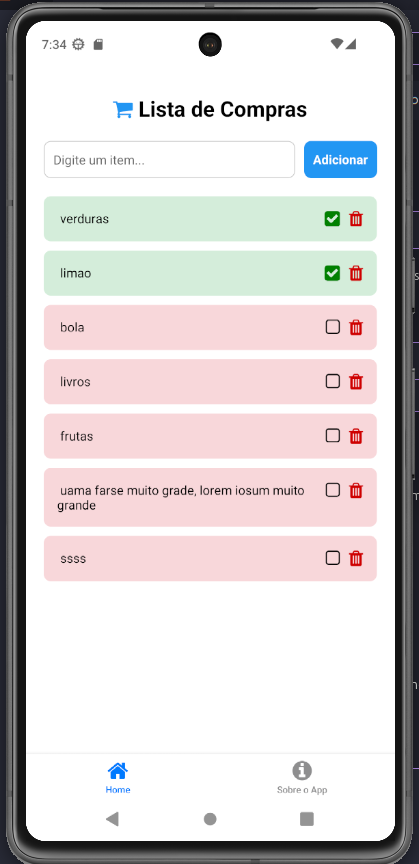
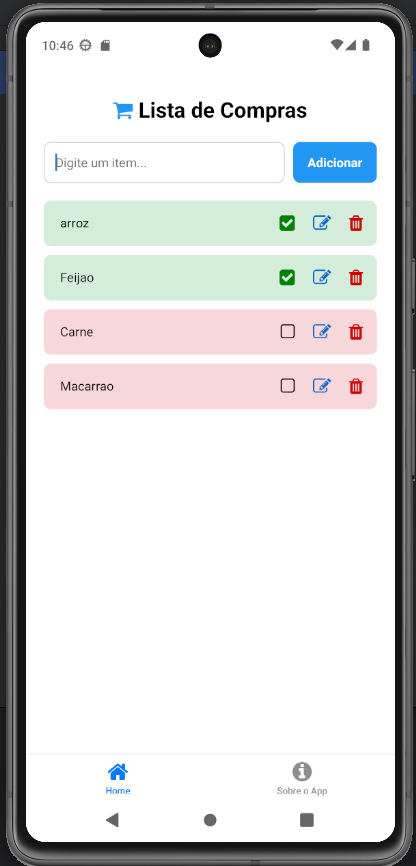
:arrow_up: adicionado msg quando a lista estiver vazia

diff --git a/app/index.tsx b/app/index.tsx
@@ -64,7 +64,7 @@ export default function Home() {
   };
   return (
     <View style={styles.container}>
-      <StatusBar barStyle="dark-content" backgroundColor="#fff" />
+      <StatusBar barStyle="dark-content" backgroundColor="#ffffff" />
       <Text style={styles.titulo}>
         <FontAwesome name="shopping-cart" size={24} color="rgb(33 150 243)" />
         <Text> Lista de Compras</Text>
@@ -72,55 +72,65 @@ export default function Home() {
 
       <InputItem onAdd={adicionarItem} />
 
-      <FlatList
-        data={list}
-        keyExtractor={(item) => item.id}
-        renderItem={({ item }) => (
-          <TouchableOpacity
-            style={[
-              styles.item,
-              item.purchased ? styles.itemComprado : styles.itemPendente,
-            ]}
-            onPress={() => toggleItem(item.id)}
-            onLongPress={() => removerItem(item.id)}
-          >
-            <View style={styles.textoItem}>
-              <View style={{ flexDirection: "row" }}>
-                {/* check */}
-                <TouchableOpacity onPress={() => toggleItem(item.id)}>
-                  {item.purchased ? (
-                    <FontAwesome
-                      name="check-square"
-                      size={20}
-                      color={"green"}
-                    />
-                  ) : (
-                    <FontAwesome name="square-o" size={20} color={"black"} />
-                  )}
-                </TouchableOpacity>
+      {list.length === 0 ? (
+        <View style={styles.emptyContainer}>
+          <FontAwesome name="shopping-basket" size={60} color="#ccc" />
+          <Text style={styles.emptyText}>Sua lista está vazia</Text>
+          <Text style={styles.emptySubText}>
+            Adicione itens para começar suas compras!
+          </Text>
+        </View>
+      ) : (
+        <FlatList
+          data={list}
+          keyExtractor={(item) => item.id}
+          renderItem={({ item }) => (
+            <TouchableOpacity
+              style={[
+                styles.item,
+                item.purchased ? styles.itemComprado : styles.itemPendente,
+              ]}
+              onPress={() => toggleItem(item.id)}
+              onLongPress={() => removerItem(item.id)}
+            >
+              <View style={styles.textoItem}>
+                <View style={{ flexDirection: "row" }}>
+                  {/* check */}
+                  <TouchableOpacity onPress={() => toggleItem(item.id)}>
+                    {item.purchased ? (
+                      <FontAwesome
+                        name="check-square"
+                        size={20}
+                        color={"green"}
+                      />
+                    ) : (
+                      <FontAwesome name="square-o" size={20} color={"black"} />
+                    )}
+                  </TouchableOpacity>
 
-                {/* editar */}
-                <TouchableOpacity
-                  style={{ marginLeft: 20 }}
-                  onPress={() => iniciarEdicao(item.id, item.name)}
-                >
-                  <FontAwesome name="edit" size={20} color={"#0066cc"} />
-                </TouchableOpacity>
+                  {/* editar */}
+                  <TouchableOpacity
+                    style={{ marginLeft: 20 }}
+                    onPress={() => iniciarEdicao(item.id, item.name)}
+                  >
+                    <FontAwesome name="edit" size={20} color={"#0066cc"} />
+                  </TouchableOpacity>
 
-                {/* remover */}
-                <TouchableOpacity
-                  style={{ marginLeft: 20 }}
-                  onPress={() => removerItem(item.id)}
-                >
-                  <FontAwesome name="trash" size={20} color={"#cf0000"} />
-                </TouchableOpacity>
+                  {/* remover */}
+                  <TouchableOpacity
+                    style={{ marginLeft: 20 }}
+                    onPress={() => removerItem(item.id)}
+                  >
+                    <FontAwesome name="trash" size={20} color={"#cf0000"} />
+                  </TouchableOpacity>
+                </View>
+
+                <Text style={{ flexShrink: 1 }}> {item.name}</Text>
               </View>
-
-              <Text style={{ flexShrink: 1 }}> {item.name}</Text>
-            </View>
-          </TouchableOpacity>
-        )}
-      />
+            </TouchableOpacity>
+          )}
+        />
+      )}
 
       <ConfirmModal
         visible={modalVisible}

diff --git a/app/about.tsx b/app/about.tsx
@@ -24,23 +24,37 @@ export default function Sobre() {
         </Text>
 
         <Text style={styles.subtitulo}>Objetivos do Projeto</Text>
-        <Text style={styles.texto}>
-          Aplicar conceitos fundamentais do React Native{"\n"}
-          Demonstrar uso de componentes visuais (View, Text, TouchableOpacity)
-          {"\n"}
-          Utilizar AsyncStorage para persistência de dados{"\n"}
-          Proporcionar uma interface simples, funcional e intuitiva
-        </Text>
+        <View style={styles.lista}>
+          <Text style={styles.itemLista}>
+            • Aplicar conceitos fundamentais do React Native
+          </Text>
+          <Text style={styles.itemLista}>
+            • Demonstrar uso de componentes visuais (View, Text,
+            TouchableOpacity)
+          </Text>
+          <Text style={styles.itemLista}>
+            • Utilizar AsyncStorage para persistência de dados
+          </Text>
+          <Text style={styles.itemLista}>
+            • Proporcionar uma interface simples, funcional e intuitiva
+          </Text>
+        </View>
 
         <Text style={styles.subtitulo}>Tecnologias Utilizadas</Text>
-        <Text style={styles.texto}>
-          • React Native (com Expo){"\n"}• TypeScript{"\n"}• AsyncStorage para
-          armazenamento{"\n"}• Estilização com StyleSheet{"\n"}• Expo Router
-          para navegação entre telas
-        </Text>
+        <View style={styles.lista}>
+          <Text style={styles.itemLista}>• React Native (com Expo)</Text>
+          <Text style={styles.itemLista}>• TypeScript</Text>
+          <Text style={styles.itemLista}>
+            • AsyncStorage para armazenamento
+          </Text>
+          <Text style={styles.itemLista}>• Estilização com StyleSheet</Text>
+          <Text style={styles.itemLista}>
+            • Expo Router para navegação entre telas
+          </Text>
+        </View>
 
         <Text style={styles.subtitulo}>Versão do App</Text>
-        <Text style={styles.texto}>Versão 1.0.0</Text>
+        <Text style={styles.texto}>Versão 1.0.1</Text>
 
         <TouchableOpacity
           style={styles.botao}

diff --git a/styles/home.ts b/styles/home.ts
@@ -46,4 +46,26 @@ export const styles = StyleSheet.create({
     justifyContent: "space-between",
     fontSize: 16,
   },
+
+  emptyContainer: {
+    flex: 1,
+    justifyContent: "center",
+    alignItems: "center",
+    paddingTop: 50,
+  },
+
+  emptyText: {
+    fontSize: 20,
+    fontWeight: "bold",
+    color: "#666",
+    marginTop: 20,
+    textAlign: "center",
+  },
+
+  emptySubText: {
+    fontSize: 16,
+    color: "#999",
+    marginTop: 10,
+    textAlign: "center",
+  },
 });

diff --git a/styles/about.ts b/styles/about.ts
@@ -42,4 +42,12 @@ export const styles = StyleSheet.create({
     textAlign: "center",
     color: "#555",
   },
+  lista: {
+    marginLeft: 10,
+  },
+  itemLista: {
+    fontSize: 16,
+    lineHeight: 24,
+    marginBottom: 5,
+  },
 });

diff --git a/README.md b/README.md
@@ -77,29 +77,34 @@ npx expo start
 app-shopping-list/
 ├── app/
 │   ├── _layout.tsx          # Layout principal com navegação
-│   ├── home/
-│   │   ├── index.tsx        # Tela principal da lista
-│   │   └── style.ts         # Estilos da tela home
-│   └── about/
-│       ├── index.tsx        # Tela sobre o app
-│       └── style.tsx        # Estilos da tela sobre
-├── components/              # Componentes reutilizáveis
+│   ├── index.tsx            # Tela inicial
+│   ├── home.tsx             # Tela principal da lista
+│   └── about.tsx            # Tela sobre o app
+├── components/
+│   ├── ConfirmModal.tsx     # Modal de confirmação
+│   ├── EditModal.tsx        # Modal de edição
+│   ├── InputItem.tsx        # Componente de input
+│   └── ListItem.tsx         # Componente de item da lista
 ├── hooks/
 │   └── useShoppingList.ts   # Hook personalizado
+├── styles/
+│   ├── home.ts              # Estilos da tela home
+│   └── about.ts             # Estilos da tela sobre
 ├── utils/
 │   └── storage.ts           # Utilitários de armazenamento
-├── types/                   # Tipos gerais
+├── types/
+│   └── item.ts              # Tipos do item
 └── assets/                  # Imagens e recursos
 ```
 
 ## 🎨 Personalização
 
-### Cores do Tema
+### Cores do Tema (Claro)
 
 As cores principais estão definidas nos arquivos de estilo:
 
-- Azul principal: `#004b77`
-- Azul secundário: `#1F3C88`
+- Azul principal: `#2196F3`
+- Branco principal: `#FFFFFF`
 
 ### Ícones
 
